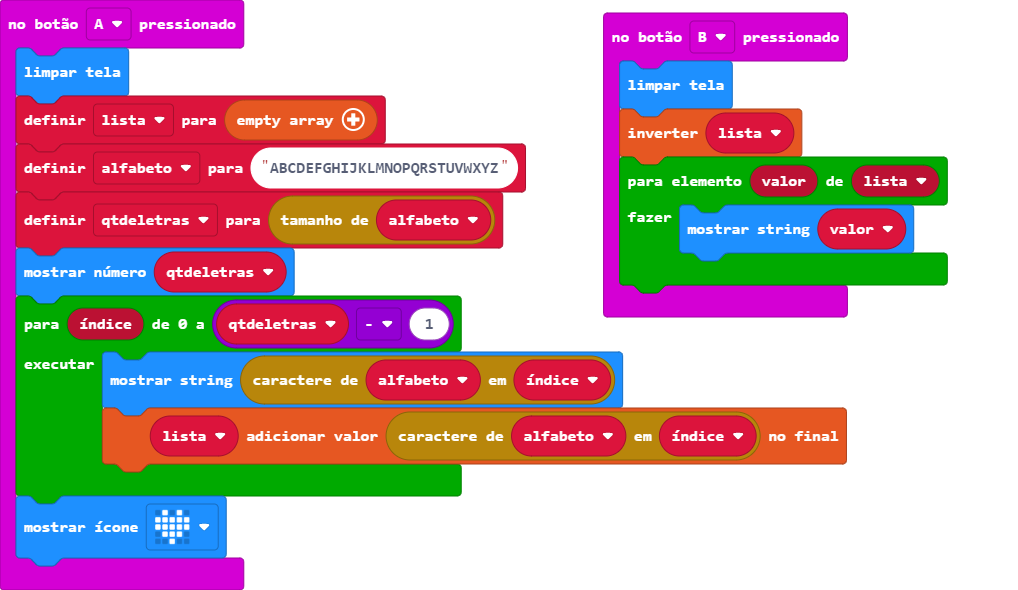
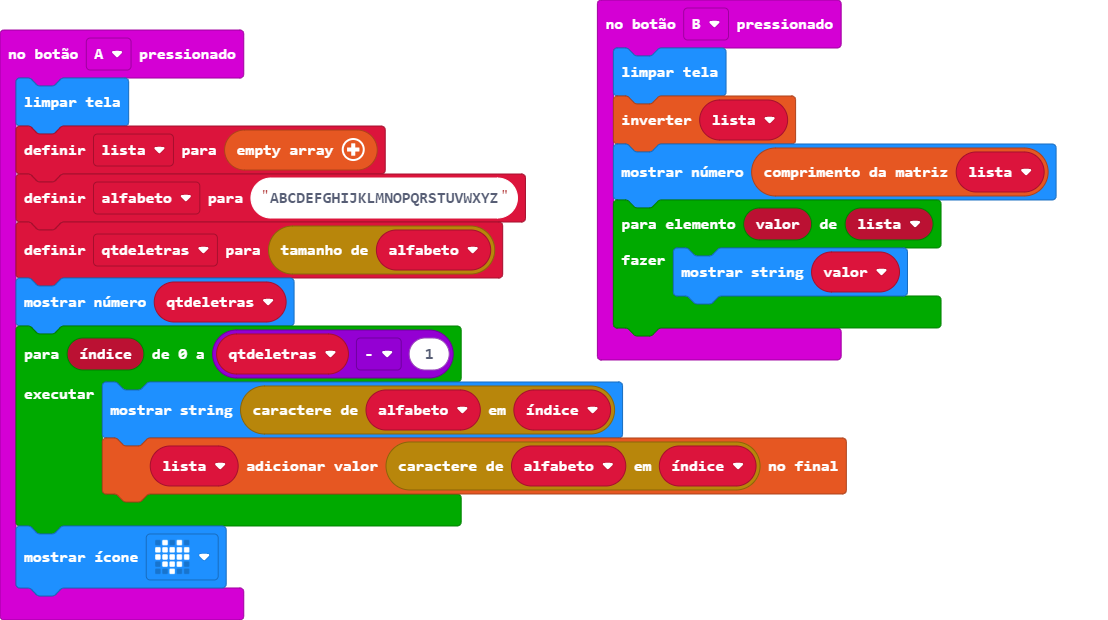
Update main.blocks, main.ts

diff --git a/main.ts b/main.ts
@@ -16,6 +16,7 @@ input.onButtonPressed(Button.A, function () {
 input.onButtonPressed(Button.B, function () {
     basic.clearScreen()
     lista.reverse()
+    basic.showNumber(lista.length)
     for (let valor of lista) {
         basic.showString("" + (valor))
     }
